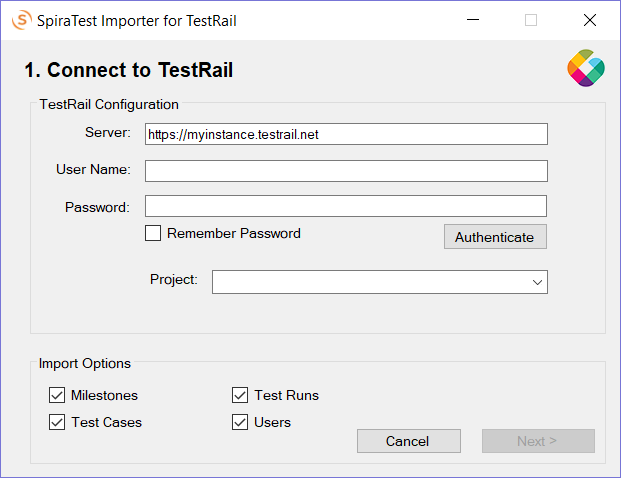
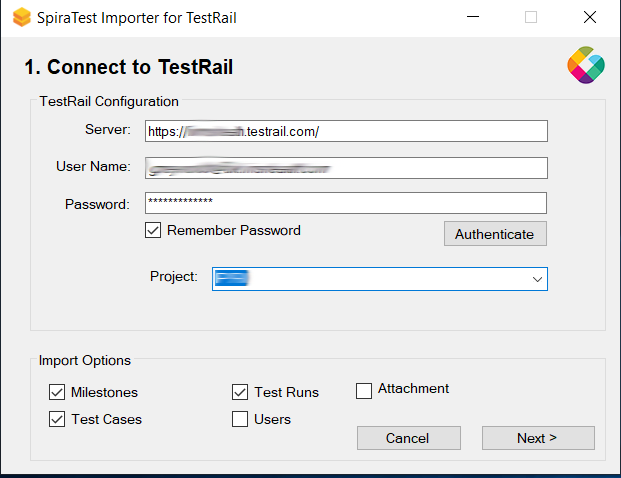
Update TestRail documentation for recent changes.

diff --git a/docs/Migration-and-Integration/Migrating-from-TestRail.md b/docs/Migration-and-Integration/Migrating-from-TestRail.md
@@ -4,7 +4,7 @@ This section outlines how to use the free Migration Tool for importing Milestone
 
 ## Installing the TestRail Migration Tool
 
-This section outlines how to install the migration tool for TestRail onto a workstation so that you can then migrate whole projects from TestRail to either SpiraTest or SpiraTeam (hereafter referred to as SpiraTest). It assumes that you already have a working installation of SpiraTest v5.0 or later and a live instance of TestRail to migrate from. If you have an earlier version of SpiraTest you will need to upgrade to at least v5.0 before trying to migrate projects.
+This section outlines how to install the migration tool for TestRail onto a workstation so that you can then migrate whole projects from TestRail to either SpiraTest or SpiraTeam (hereafter referred to as SpiraTest). It assumes that you already have a working installation of SpiraTest v8.0 or later and a live instance of TestRail to migrate from. If you have an earlier version of SpiraTest you will need to upgrade to at least v8.0 before trying to migrate projects.
 
 The Windows installation package can be downloaded from the 'Add-Ons & Downloads" section of the Inflectra website. Once you have obtained the Windows Installer package, simply double-click on the package to begin the installation wizard which should display the following welcome page:
 
@@ -22,24 +22,31 @@ Now that you have installed the migration tool, you can launch it at any time by
 
  ![](img/Migrating_from_TestRail_76.png)  
 
-The first thing you need to do is to enter the URL for the instance of TestRail that you want to import the information from (typically of the form https://xxxxx.testrail.net) together with a valid username and password.
+The first thing you need to do is to enter the URL for the instance of TestRail that you want to import the information from (typically of the form `https://xxxxx.testrail.net`) together with a valid username and password.
 
-Once you have entered this information, click the <Authenticate\> button and the list of projects will be populated. Select TestRail project that you want to ***import from*** You can also choose to not import certain artifacts from TestRail (e.g. Milestones, etc.) then click the <Next\> button to move to the next page in the import wizard:
+Once you have entered this information, click the **Authenticate** button and the list of projects will be populated. Select TestRail project that you want to ***import from*** You can also choose to not import certain artifacts from TestRail (e.g. Milestones, etc.) then click the **Next >** button to move to the next page in the import wizard:
 
  ![](img/Migrating_from_TestRail_77.png)  
 
 This page allows you to enter the URL, user name and password that you want to use to access the instance of SpiraTest that you want to ***import to*** and click <Login\>. Typically, the URL is of the form (https://xxxx.spiraservice.net). The version of the importer being used must be compatible with the version of SpiraTest you're importing into;
 if not you will receive an error message.
 
-Assuming that the login was successful, click the <Start Import\> button to actually begin the process of importing the various artifacts from TestRail into SpiraTest. Note that the importer will automatically create a new project in SpiraTest to hold all the artifacts with the same name as that used in TestRail.
+Assumning that the login was successful, click the **Next >** button and you will be taken to the screen where you can map the execution statuses used in your TestRail instance to those in SpiraTest:
+
+![](img/Migrating_from_TestRail_79.png)
+
+On this screen you should enter the IDs of the different test execution statuses configured in your TestRail instance for each SpiraTest status. If you have multiple TestRail statuses that correspond to a single SpiraTest status, just separate them with commas. The importer will be pre-populated with the correct values for a "vanilla" instance of TestRail, so unless you have modified the default TestRail statuses, no changes should be necessary.
+
+Once you have confirmed the mapping, click the **Start Import** button to actually begin the process of importing the various artifacts from TestRail into SpiraTest. Note that the importer will automatically create a new project in SpiraTest to hold all the artifacts with the same name as that used in TestRail.
 
 ![](img/Migrating_from_TestRail_78.png)
 
-During the import process, as each of the types of artifact are imported, the progress display will change (as illustrated above). Once the import has finished, you will receive a message to that effect and the <Done\> button will be enabled. Clicking this button closed the importer. You should now log into SpiraTest using the same user name and password that was used for the import to view the imported project.
+During the import process, as each of the types of artifact are imported, the progress display will change (as illustrated above). Once the import has finished, you will receive a message to that effect and the **Done** button will be enabled. Clicking this button closes the importer. You should now log into SpiraTest using the same user name and password that was used for the import to view the imported project.
 
 The migration tool will import the following artifacts from TestRail:
 
 - The project name and description
+- Custom fields for test cases and test results
 - Users (but not their roles and permissions)
 - Milestones
 - Test suites and their sections
@@ -47,5 +54,5 @@ The migration tool will import the following artifacts from TestRail:
 - Test plans with associated tests and test results
 - Attachments and images
 
-*Should the import fail for any reason, there will be a log file created on the Desktop of the person doing the import. The filename is usually:
-**Spira\_TestRail\_Import.log**.*
+*Should the import fail for any reason, there will be a log file created on the Desktop of the person doing the import. The filename is usually of the format:
+`Spira_TestRail_Import_yyyymmdd.log`.
